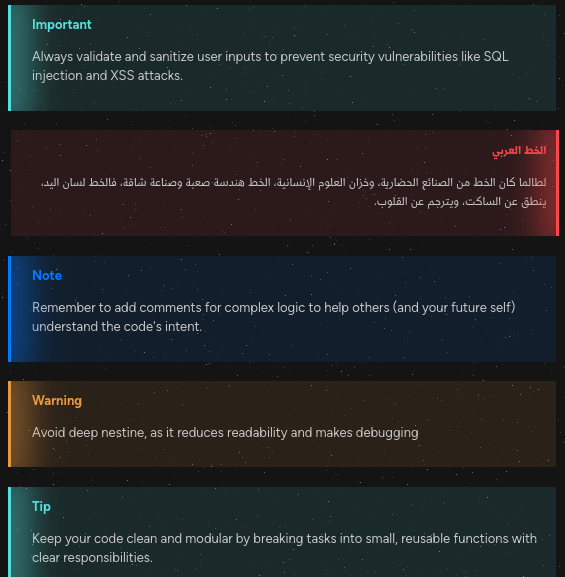
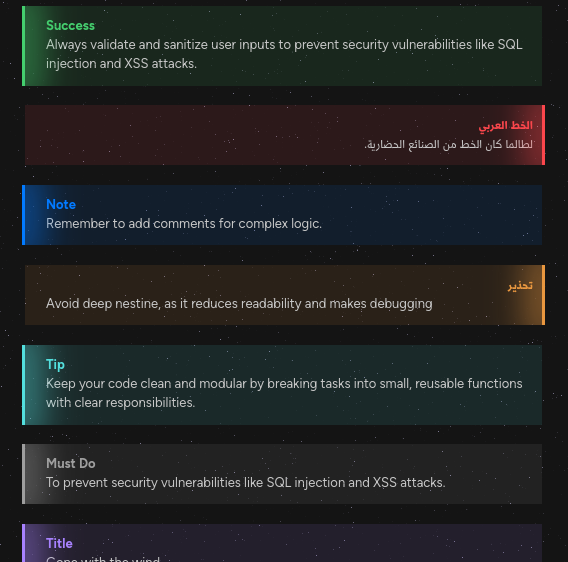
update: readme

Changed region(s): [[0.0, 0.1815, 0.9929, 1.0], [0.0, 0.0, 0.9327, 0.2117]]

diff --git a/README.md b/README.md
@@ -127,7 +127,7 @@ I've made this theme primarily for my own purposes and it's completely free, but
     <p align="center"> <img src="assets/pics/general/file-tree-icons.jpg" style="height: 400px !important;width: 400px !important;"></p>
 </details>
 <details>
-   <summary>5. New 11 style for callouts.</summary>
+   <summary>5. New 12 style for callouts.</summary>
     <p> Using <a href="https://github.com/mgmeyers/obsidian-style-settings">style settings</a> plugin you can select what style you want.</p>
 
   <ul>
@@ -262,6 +262,18 @@ I've made this theme primarily for my own purposes and it's completely free, but
       </details>
     </li>
   </ul>
+  <ul>
+    <li>
+     <details>
+      <summary>Raka style</summary>
+        <p>
+            <ul>
+              <p align="center"> <img src="assets/pics/callouts/sets/12.raka.png"></p>
+            </ul>
+        </p>
+      </details>
+    </li>
+  </ul>
 
 </details>
 <details>
@@ -346,22 +358,28 @@ I've made this theme primarily for my own purposes and it's completely free, but
 ## Additional Features
 
 1. Stars background that gives the sensation of diving into space.
-2. Integration with <a href="https://github.com/mgmeyers/obsidian-style-settings">style settings</a> plugin, which controls some of the features in the theme, You can:
-   - Enable/disable Stars background.
-   - Set background color.
-   - Select headers color scheme.
-   - Enable/disable custom fonts.
-   - Show/hide navigation tree arrow.
-   - Show/hide callouts icons.
-   - Select callout style from 11 different styles.
-   - Enable/disable callout title centering.
-   - Select code block theme from 9 different styles.
-3. One backtick code block dynamic font color.
-4. Gradient color for note title.
-5. Gradient color for strong text.
-6. 9 different theme for code block.
-7. Cool animations.
-8. New style for folding headers (H1 H2 H3 H4 H5 H6).
+2. Gradient color for note title.
+3. Gradient color for strong text.
+4. 9 different theme for code block.
+5. Cool animations.
+6. New style for folding headers (H1 H2 H3 H4 H5 H6).
+
+## Customize Glass Robo with <a href="https://github.com/mgmeyers/obsidian-style-settings">style settings</a>
+
+  - Install <a href="https://github.com/mgmeyers/obsidian-style-settings">style settings</a> plugin then enable it.
+  - Once the plugin is enabled, go to Settings, Navigate to the "Style Settings" tab.
+
+### with style settings plugin you can :
+  - Enable/disable Stars background.
+  - Set background color.
+  - Select headers color scheme.
+  - Enable/disable custom fonts.
+  - Show/hide navigation tree arrow.
+  - Show/hide callouts icons.
+  - Select callout style from 12 different styles.
+  - Enable/disable callout title centering.
+  - Select code block theme from 9 different styles.
+
 
 ## Supported plugins
 
